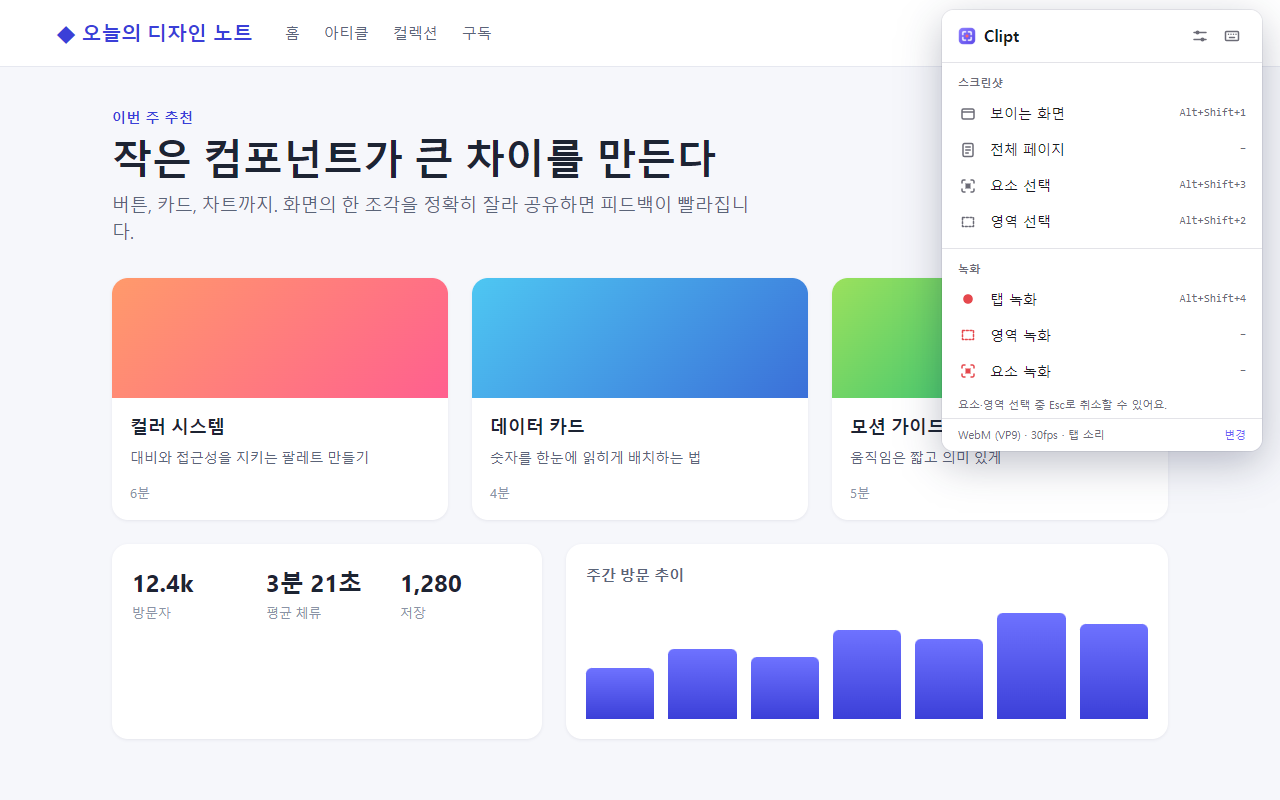
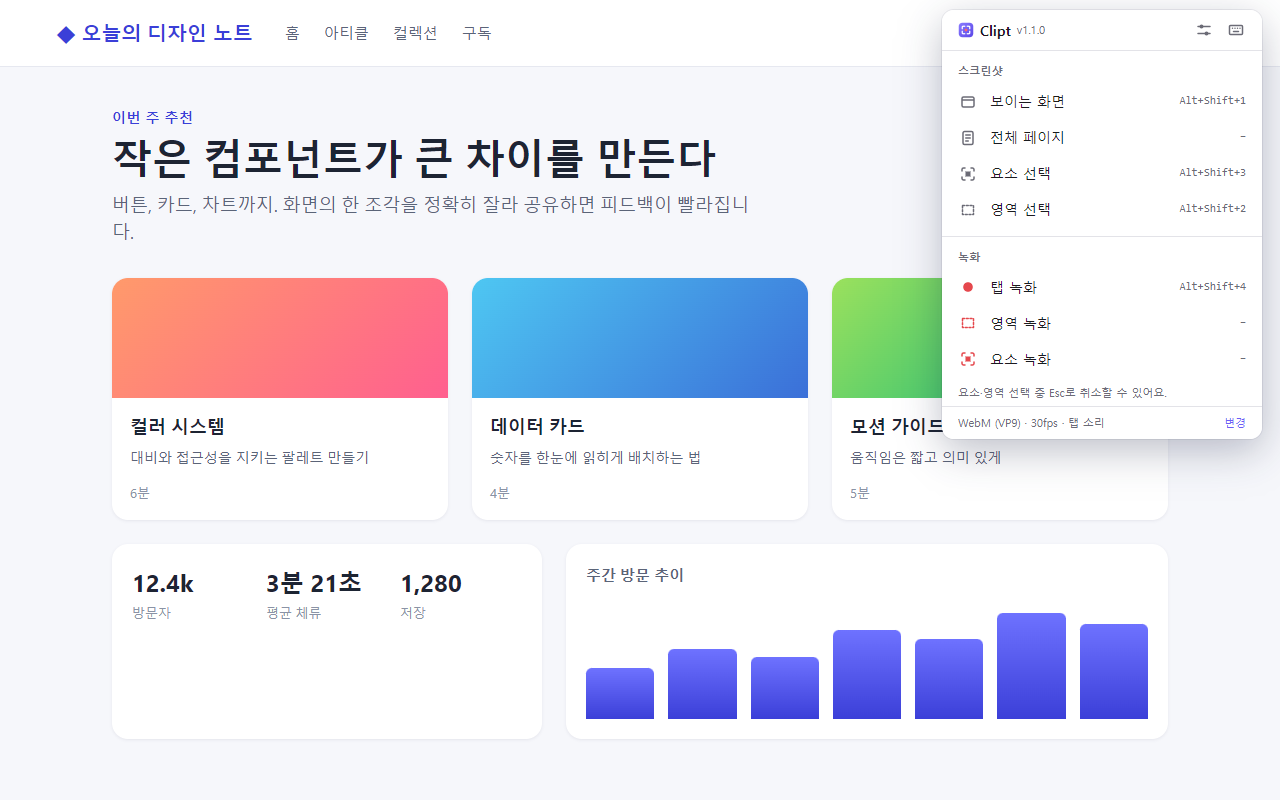
feat: 팝업 머리글에 버전 표시와 높이 축소 - 이름 옆에 manifest 버전(vX.Y.Z)을 작은 회색 글씨로 표시 - 머리글 위아래 여백·이름 글자·로고를 줄여 높이 약 52px에서 40px로 - 팝업 버전 표시 E2E 추가, ux-design 3.1절과 README 화면 캡처 갱신 - 1.1.0 릴리스 노트와 변경기록 행 추가

diff --git a/src/entrypoints/popup/Popup.tsx b/src/entrypoints/popup/Popup.tsx
@@ -37,6 +37,7 @@ const ERROR_MESSAGE: Partial<Record<ErrorCode | string, MessageKey>> = {
   LAYOUT_CHANGED: 'errorLayoutChanged',
 };
 
+const APP_VERSION = browser.runtime.getManifest().version;
 const NO_SHORTCUT = '–';
 const HINT_KEY = 'popupHintShown';
 const HINT_LIMIT = 3;
@@ -115,8 +116,9 @@ function Header({ onSettings }: { onSettings: () => void }) {
   return (
     <header class="popup-header">
       <h1 class="popup-title">
-        <BrandMark />
+        <BrandMark size={16} />
         {t('appShortName')}
+        <span class="popup-version">{`v${APP_VERSION}`}</span>
       </h1>
       <div class="popup-actions">
         <button

diff --git a/tests/e2e/popup.spec.ts b/tests/e2e/popup.spec.ts
@@ -21,6 +21,13 @@ const MODES = [
   'rec-element',
 ] as const;
 
+test('팝업 헤더에 이름과 함께 확장 버전이 보인다', async ({ openExtensionPage }) => {
+  const popup = await openExtensionPage('popup.html');
+  const version = await popup.evaluate(() => chrome.runtime.getManifest().version);
+  await expect(popup.locator('.popup-title')).toContainText('Clipt');
+  await expect(popup.locator('.popup-version')).toHaveText(`v${version}`);
+});
+
 test('팝업에서 7개 기능을 모두 시작할 수 있다', async ({ context, openControlWindow }) => {
   const site = await context.newPage();
   await site.goto(SITE + '/menu');

diff --git a/src/entrypoints/popup/popup.css b/src/entrypoints/popup/popup.css
@@ -13,17 +13,24 @@ body {
   display: flex;
   align-items: center;
   justify-content: space-between;
-  padding: var(--sp-3) var(--sp-4);
+  padding: 6px var(--sp-3) 6px var(--sp-4);
   border-bottom: 1px solid var(--c-border);
 }
 
 .popup-title {
   display: flex;
   align-items: center;
-  gap: var(--sp-2);
+  gap: 6px;
   margin: 0;
-  font-size: var(--fs-lg);
+  font-size: var(--fs-md);
   font-weight: 700;
+}
+
+.popup-version {
+  color: var(--c-fg-2);
+  font-size: var(--fs-xs);
+  font-weight: 400;
+  font-variant-numeric: tabular-nums;
 }
 
 .popup-actions {

diff --git a/CHANGELOG.md b/CHANGELOG.md
@@ -16,6 +16,7 @@
 
 | 버전 | 날짜 | 주요 변경내역 |
 | --- | --- | --- |
+| 1.1.0 | 2026-11-11 | - **UI**: 팝업 머리글 이름 옆에 설치된 버전(`vX.Y.Z`) 표시, 머리글 여백과 이름 글자를 줄여 높이를 약 52px에서 40px로(이유: 업데이트 반영 여부를 팝업에서 바로 확인, 머리글이 메뉴보다 커 보임)<br>- **릴리스**: 릴리스 워크플로가 만든 빌드 아티팩트를 게시 실행에만 하루 보관(이유: 저장소 아티팩트 용량 절약)<br>- **검증**: 팝업 버전 표시 E2E, README 화면 캡처 갱신<br>PR: [#82], [#83], [#84] |
 | 1.0.2 | 2026-10-08 | - **캡처·선택**: 본문만 따로 스크롤되는 앱형 페이지(머리글 아래 본문, body 스크롤, 왼쪽 메뉴 + 오른쪽 본문, 고정 앱 틀과 Shadow DOM)에서 전체 페이지 캡처가 현재 화면만 담던 문제 수정(스크롤 영역 전체를 이어 붙이고 결과에 안내), 스크롤 영역에 가려진 요소와 스크롤 영역 자체의 요소 캡처를 영역을 스크롤해 전체로, 영역 안 sticky 머리 한 번만, 스크롤 스냅 영역 대응, 캡처 뒤 스크롤 위치 복원(이유: 메일·문서·대시보드 같은 웹앱 대부분이 이 구조)<br>- **검증**: 앱형 레이아웃 E2E(머리글형, body 스크롤, 왼쪽 메뉴형, 고정 앱 틀 + Shadow DOM, slot, 스크롤 스냅, 왼쪽 고정 메뉴 + 문서 스크롤)와 오판 방지 E2E(짧은 일반 문서, 모달 잠금, 가운데 부유 패널, 확대·축소된 영역, 스크롤로 펼칠 수 없게 가린 요소)<br>PR: [#80] |
 | 1.0.1 | 2026-10-04 | - **녹화**: 작은 요소·영역 영상에 최소 크기(160px, 4:1 이내) 여백, 96kHz 오디오 장치에서 MP4가 빈 파일이 되던 문제 수정(오디오 48kHz), 저장 중 중지 연타·자동 종료와 겹친 중지·인코더/저장 오류·시작 직후 중지에도 결과 보존, 카운트다운 중 리사이즈·위젯 드래그로 범위가 어긋나거나 위젯이 찍히던 문제 수정, 요소 따라가기 순간 이동 뒤 잘못된 정지 화면 보정<br>- **캡처·선택**: 그린 뒤 화면 밖으로 스크롤한 영역 캡처 결과 오류 수정, 요소 선택을 Enter·↑·↓로 키보드만으로 시작, Shadow DOM 최상위 요소 사이 ←/→ 이동, 요소 경로 칩이 넘친 쪽 가장자리를 흐리게 표시<br>- **UI·결과**: 녹화 중 팝업의 중지 버튼 문구가 두 줄로 깨지던 문제 수정(단축키는 버튼 아래 힌트로), 글꼴 기호 아이콘을 SVG로 교체, 한국어 문장을 어절 단위로 줄바꿈, 보존 한도보다 큰 최신 녹화 결과 삭제 방지, 바로 다운로드 실패·취소 시 결과 페이지로 대체, 좁은 창에서도 영상 재생 컨트롤 공간 확보<br>- **릴리스**: 버전을 올린 main 커밋의 CI가 성공하면 `vX.Y.Z` 태그와 GitHub Release 자동 게시, 배포 빌드가 바뀌었는데 버전을 올리지 않은 PR에 CI 경고, 변경기록을 버전별 한 행으로 전환(이유: 머지된 수정이 릴리스되지 않고 쌓이던 문제)<br>- **검증**: 배포 빌드를 실제 툴바 클릭으로 조작하는 E2E, 녹화 프레임레이트·메모리 실측 스크립트(`npm run measure:recording`), 태그 릴리스 게시 전 커밋 CI 성공 확인<br>- **문서·절차**: README를 기능과 화면 캡처 중심으로 정리(설정·단축키 포함), 스토어 이미지 생성 스크립트(`npm run screenshots`), 이슈·PR 양식과 작업 지침을 project-starter-kit 최신본에 맞춤<br>PR: [#45], [#58], [#59], [#61], [#62], [#63], [#64], [#65], [#66], [#67], [#69], [#70], [#71], [#72], [#73], [#74], [#75], [#76], [#77] |
 | 1.0.0 | 2026-09-20 | - **저장소 절차**: 이슈 템플릿을 결함·변경·부모 3종으로 개편(AS-IS/TO-BE, 우선순위, 등록 확인), 라벨을 성격·우선순위·영역 축으로 정리, 변경기록 도입<br>- **녹화 중 표시**: 위젯을 둘 빈 모서리가 없으면 숨김, 요소 따라가기가 숨겨진 요소로 시작해도 정상 크기로 녹화<br>- **릴리스**: 첫 정식 버전 1.0.0. 태그 빌드에서 변경기록 최신 행과 버전 일치 확인, 게시 실패 후 재실행 가능, 설치 안내에 최소 Chrome 버전과 설정 동기화 설명<br>PR: [#44] |
@@ -65,3 +66,6 @@
 [#76]: https://github.com/dydtjr1128/clipt/pull/76
 [#77]: https://github.com/dydtjr1128/clipt/pull/77
 [#80]: https://github.com/dydtjr1128/clipt/pull/80
+[#82]: https://github.com/dydtjr1128/clipt/pull/82
+[#83]: https://github.com/dydtjr1128/clipt/pull/83
+[#84]: https://github.com/dydtjr1128/clipt/pull/84

diff --git a/docs/ux-design.md b/docs/ux-design.md
@@ -65,7 +65,7 @@
 
 ```text
 ┌──────────────────────────────────────────┐
-│ ✂ Clipt                          ⚙  ⌨  │  ← 설정, 단축키 설정(chrome://extensions/shortcuts)
+│ ✂ Clipt v1.1.0                   ⚙  ⌨  │  ← 설정, 단축키 설정(chrome://extensions/shortcuts)
 ├──────────────────────────────────────────┤
 │ 스크린샷                                  │
 │  ▣  보이는 화면              Alt+Shift+1 │
@@ -82,6 +82,7 @@
 └──────────────────────────────────────────┘
 ```
 
+- 헤더: 높이 40px(위아래 6px + 28px 아이콘 버튼). 로고 16px, 이름 `--fs-md` 굵게, 이름 옆에 manifest 버전 `vX.Y.Z`를 `--fs-xs`·`--c-fg-2`로 표시한다. 버전은 번역하지 않는다.
 - 항목: 아이콘 20px + 라벨 + 오른쪽 단축키 힌트(`--c-fg-2`, 미할당은 `–`). 높이 36px, 호버 `--c-bg-2`, 포커스 링 2px `--c-accent`.
 - 클릭 즉시 팝업이 닫히고 작업이 시작된다. 팝업 안에서 대기 화면을 보여주지 않는다.
 - 첫 실행 시 항목 아래에 한 줄 힌트 "요소·영역 선택 중 Esc로 취소"를 3회까지 표시.

diff --git a/releases/1.1.0.md b/releases/1.1.0.md
@@ -1,0 +1,14 @@
+# Clipt 1.1.0
+
+팝업에서 설치된 버전을 바로 확인할 수 있게 하고 머리글을 더 작게 다듬은 버전이다. 설정과 저장된 결과는 그대로 유지된다.
+
+## 팝업
+
+- 팝업 머리글의 이름 옆에 설치된 버전(`v1.1.0`)을 표시. 업데이트가 반영됐는지 `chrome://extensions`를 열지 않고 확인
+- 머리글의 위아래 여백과 이름 글자를 줄여 머리글 높이를 낮춤. 메뉴가 더 위에서 시작
+
+## 설치와 업데이트
+
+[설치 안내](https://github.com/dydtjr1128/clipt/blob/v1.1.0/INSTALL.md) · [ZIP 다운로드](https://github.com/dydtjr1128/clipt/releases/download/v1.1.0/clipt.zip) · [개인정보 처리방침](https://github.com/dydtjr1128/clipt/blob/v1.1.0/PRIVACY.md)
+
+압축 해제로 설치했다면 같은 폴더의 파일을 새 ZIP 내용으로 교체하고 `chrome://extensions`에서 새로고침한다. 설정과 저장된 결과는 유지된다. ZIP 체크섬은 **SHA256SUMS.txt**에 있다.
